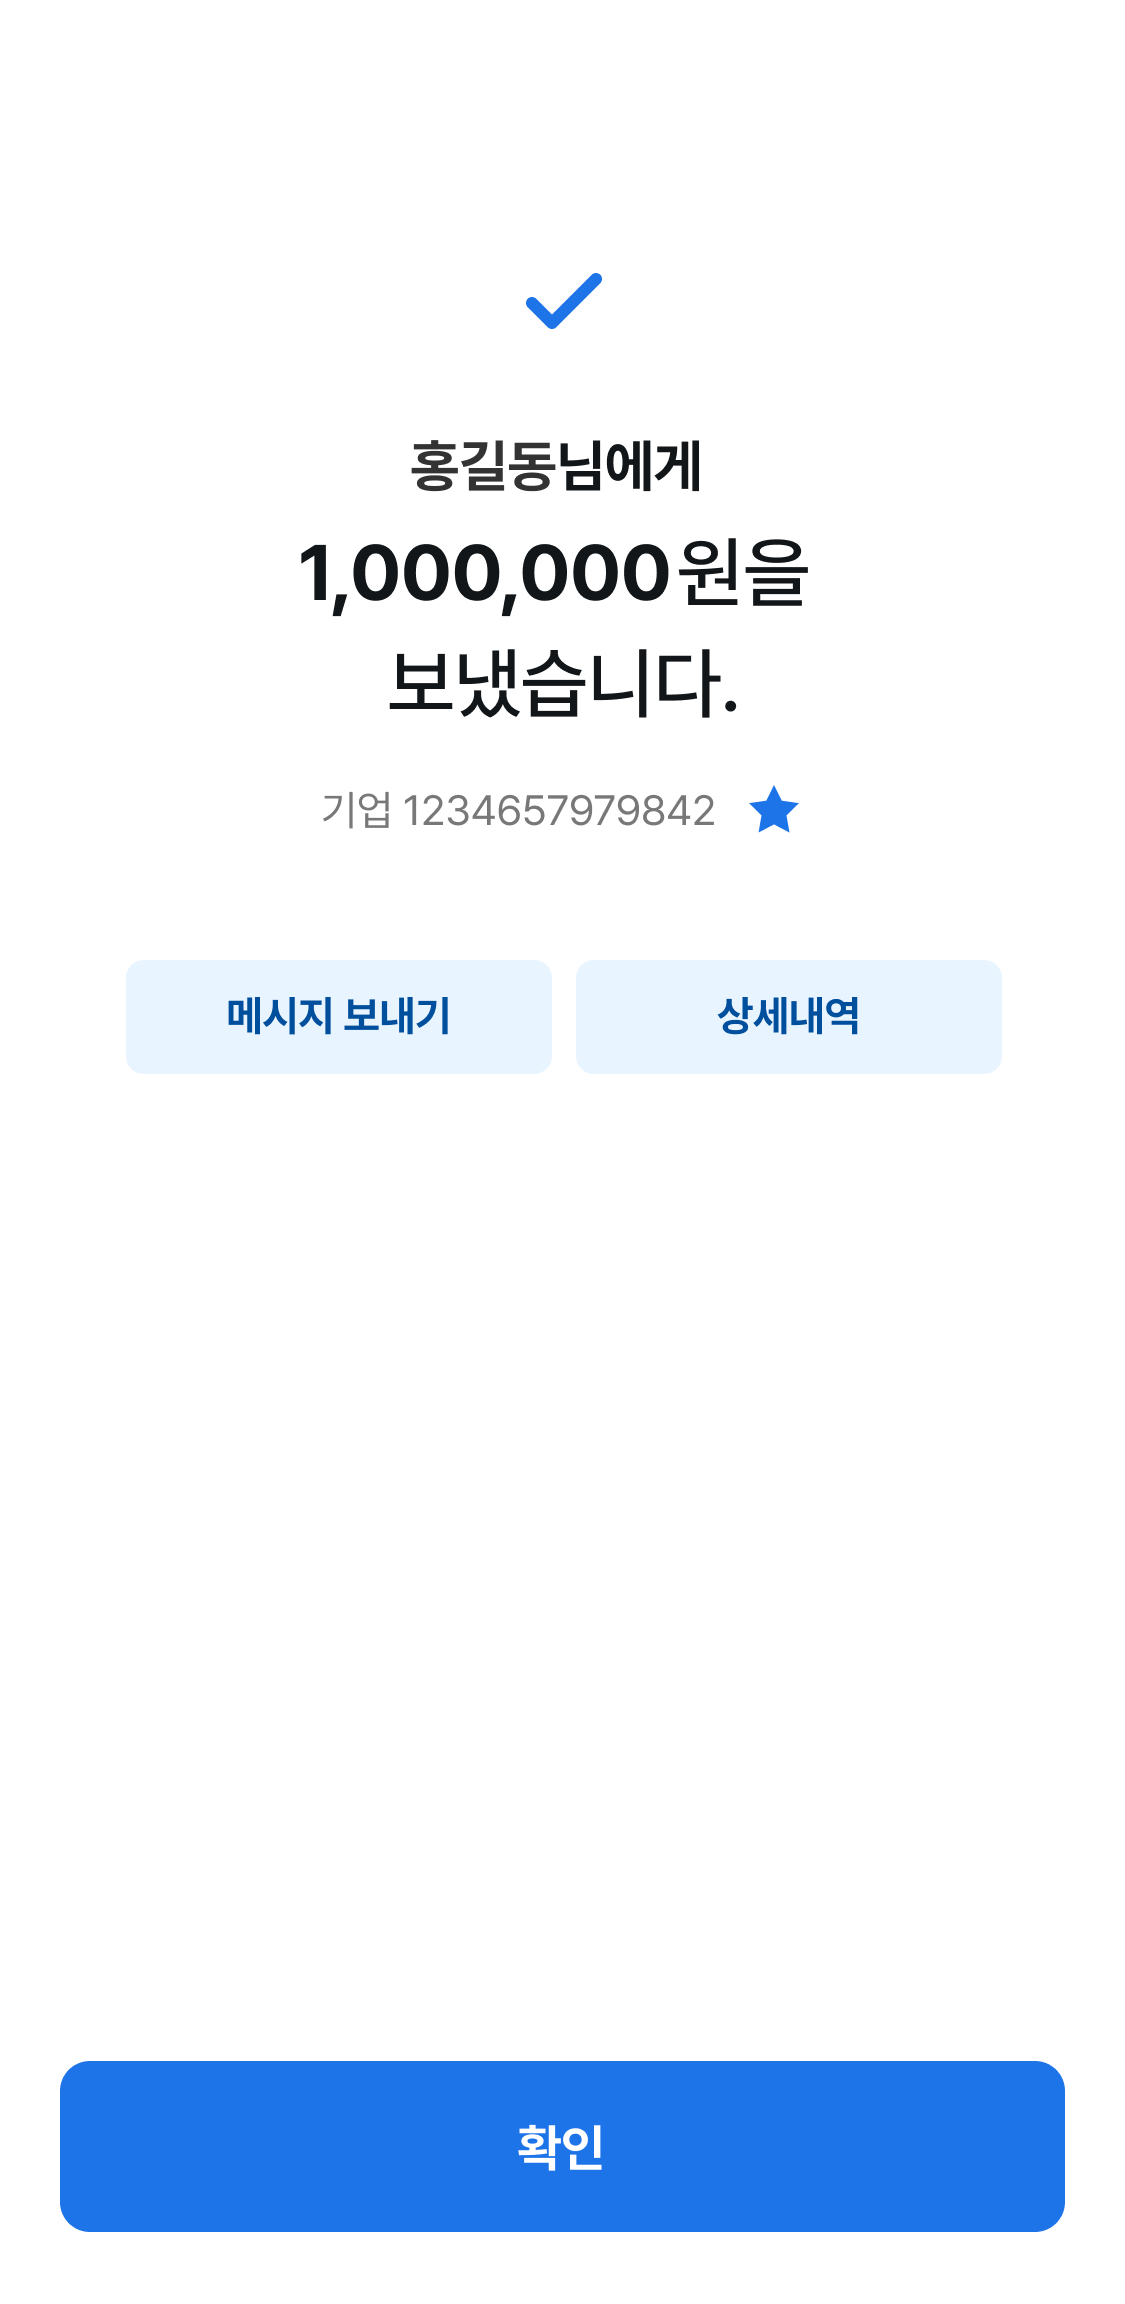
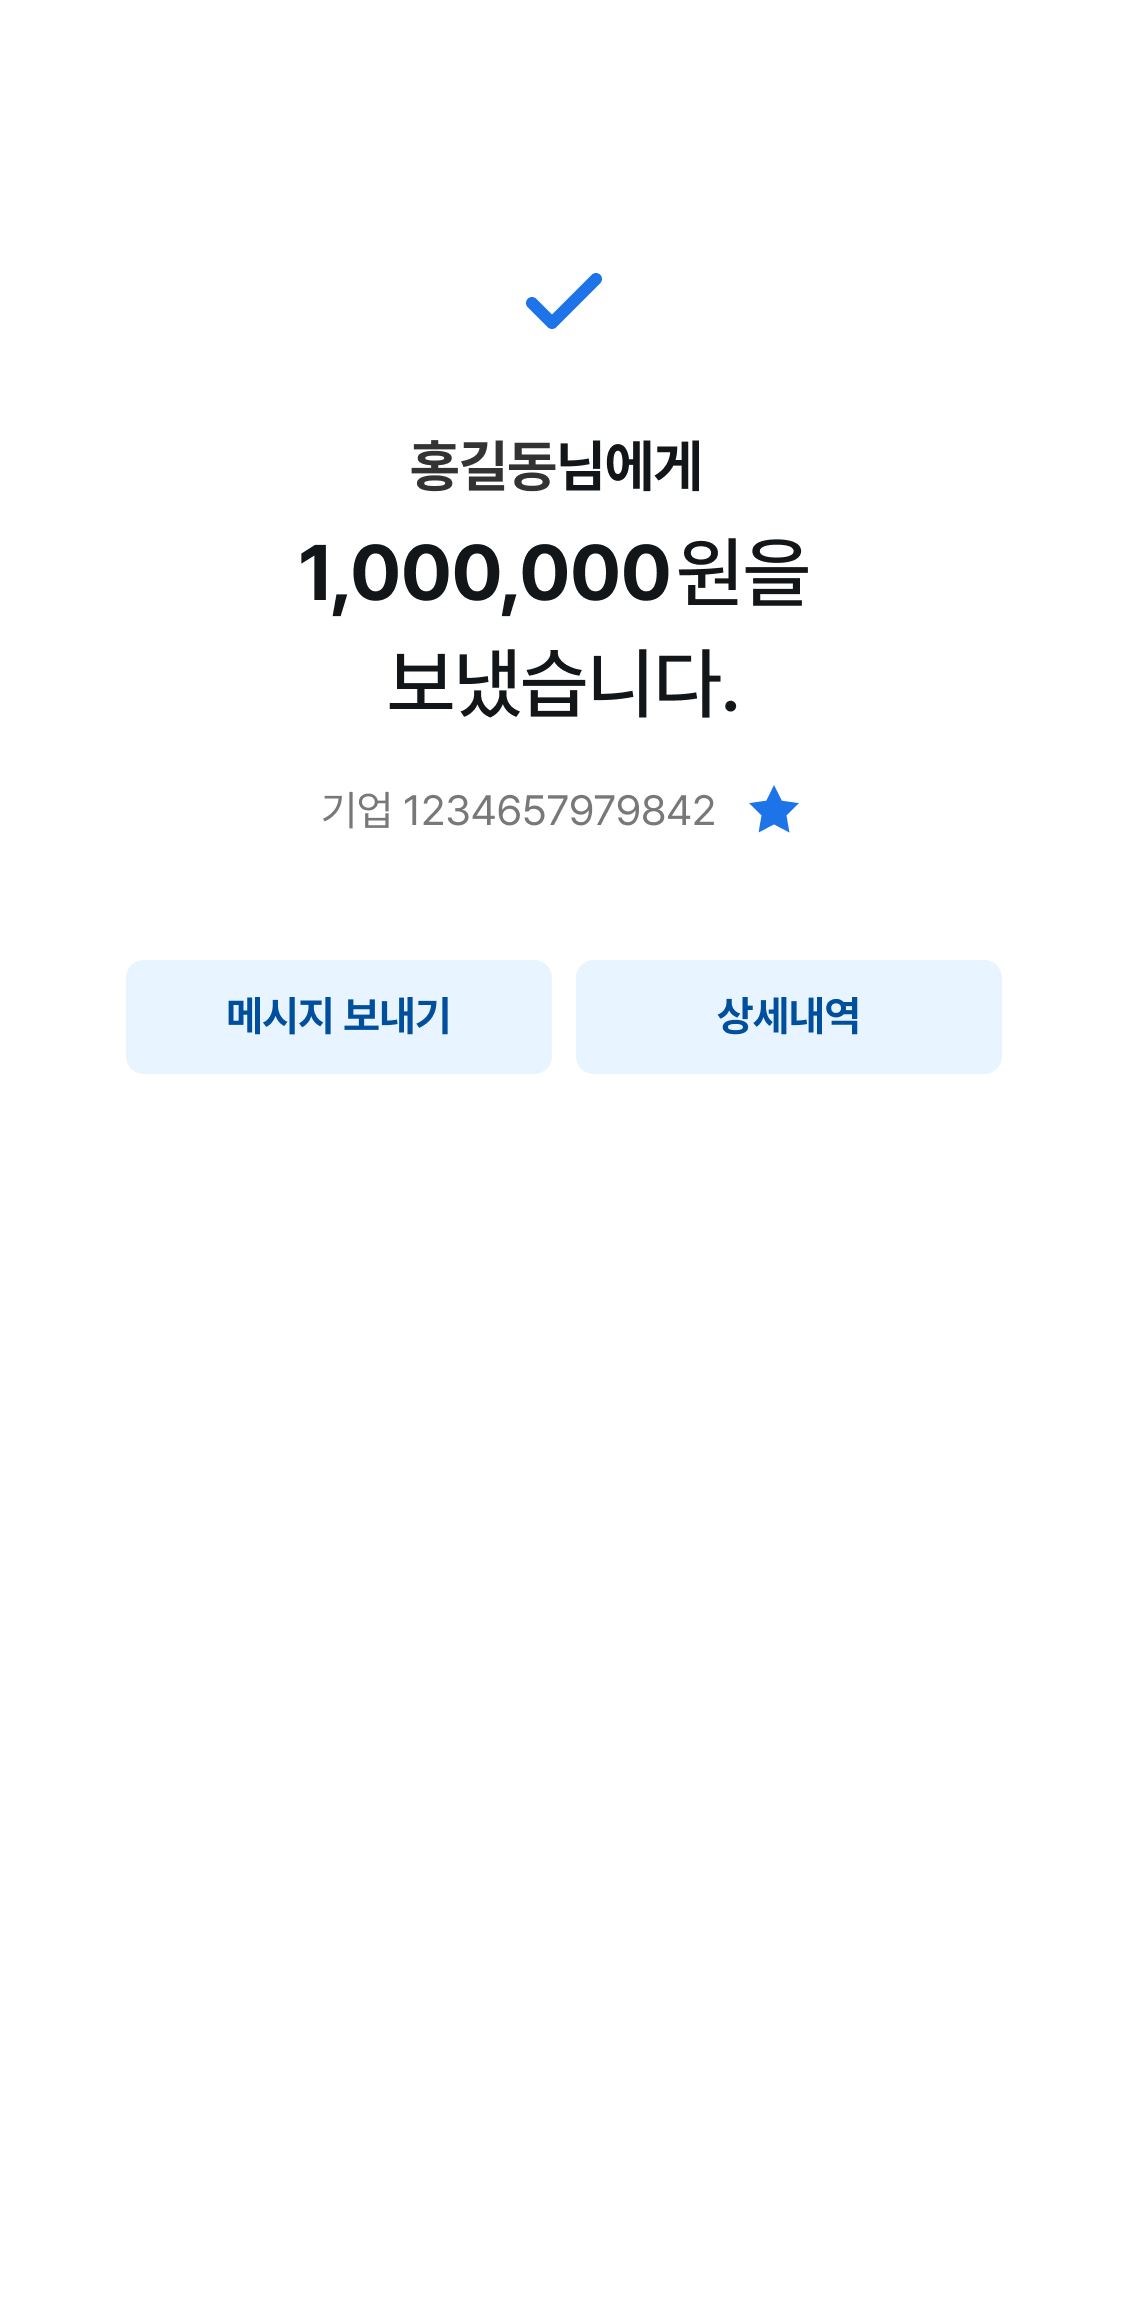
송금 수정

Changed region(s): [[0.0311, 0.875, 0.9644, 0.9688]]

diff --git a/IBK/transfer5.html b/IBK/transfer5.html
@@ -21,6 +21,7 @@
         .pop article {transform: translateY(100%);transition: all 0.5s ease;border-radius:12px 12px 0px 0px;background:#fff;width:100%;max-height:100%;padding:20px 20px 24px;box-sizing:border-box}
         .pop.on article {transform: translateY(0);transition: all 0.5s ease;}
         .pop-close {position:absolute;top:20px;right:20px;width:24px;height:24px;}
+        .img-wrap.type2 {position:fixed;width:375px;bottom:0}
         .img2 {width:302px;}
         #pop3.on{padding:0 42px}
         #pop3.on .popclose{position:relative;bottom:0;top:auto;right:auto;display: block;width: 100%;height: 24px;background: url(./images/home/home-pop-close.png) center no-repeat;background-size: 24px auto;margin: 54px 0 54px;text-align: center;}
@@ -30,11 +31,14 @@
 <body>
     <div class="container">
         <div class="page-wrap">
-            <div class="img-wrap img">
+            <div class="img-wrap">
                 <a href="#pop2" class="pop-open bt2"></a>
                 <a href="#pop1" class="pop-open2 bt1"></a>
-                <a href="#pop3" class="pop-open3 bt3"></a>
                 <img src="./images/transfer/transfer-fimg5.jpg" alt="">
+            </div>
+            <div class="img-wrap type2">
+                <a href="#pop3" class="pop-open3 bt3"></a>
+                <img src="./images/transfer/transfer-fimg5-bt.jpg" alt="">
             </div>
         </div>
     </div> 

diff --git a/IBK/transfer3.html b/IBK/transfer3.html
@@ -11,7 +11,8 @@
         .transfer-box {position:relative}
         .transfer-box a{position:absolute;top:10px;left:15px;width:35px;height:35px;}
         .img-wrap {position:relative} 
-        .img-wrap.img  a {position:absolute;width:100%;bottom:25px;height:57px;}    
+        .img-wrap a {position:absolute;width:100%;bottom:25px;height:57px;z-index:10;}   
+        .img-wrap.type2  {position:fixed;bottom:0;width:375px}
     </style>
 </head>
 <body>
@@ -21,9 +22,10 @@
                 <img src="./images/transfer/transfer-tit3.jpg" alt="">
                 <a href="./transfer2.html"></a>
             </div>
-            <div class="img-wrap img">
+            <div class="img-wrap"><img src="./images/transfer/transfer-fimg3-1.jpg" alt=""></div>
+            <div class="img-wrap type2">
                 <a href="./transfer4.html"></a>
-                <img src="./images/transfer/transfer-fimg3.jpg" alt="">
+                <img src="./images/transfer/transfer-fimg3-2.jpg" alt="">
             </div>
         </div>
     </div> 

diff --git a/IBK/transfer2.html b/IBK/transfer2.html
@@ -11,7 +11,8 @@
         .transfer-box {position:relative}
         .transfer-box a{position:absolute;top:10px;left:15px;width:35px;height:35px;}
         .img-wrap {position:relative} 
-        .img-wrap.img  a {position:absolute;width:100%;bottom:25px;height:57px;}
+        .img-wrap.type2 a {position:absolute;width:100%;bottom:25px;height:57px;z-index: 10;}
+        .img-wrap.type2 {position:fixed;width:375px;bottom:0}
     </style>
 </head>
 <body>
@@ -21,9 +22,10 @@
                 <img src="./images/transfer/transfer-tit2.jpg" alt="">
                 <a href="./transfer.html"></a>
             </div>
-            <div class="img-wrap img">
+            <div class="img-wrap"><img src="./images/transfer/transfer-fimg2-1.jpg" alt=""></div>
+            <div class="img-wrap type2">
                 <a href="./transfer3.html"></a>
-                <img src="./images/transfer/transfer-fimg2.jpg" alt="">
+                <img src="./images/transfer/transfer-fimg2-2.jpg" alt="">
             </div>
         </div>
     </div>

diff --git a/IBK/transfer.html b/IBK/transfer.html
@@ -34,6 +34,8 @@
         .pop.on{bottom:0;display:flex !important; align-items: flex-end;}
         .pop.full.on {display:block !important;background:#fff;}
         .pop-close {position:absolute;top:20px;right:20px;width:24px;height:24px}
+        .pop.full .img1 {}
+        .pop.full .img2 {position:fixed; bottom:0}
     
        
     </style>
@@ -85,7 +87,8 @@
         </div>
     </div>
     <div class="pop full" id="pop1">
-        <img src="./images/transfer/transfer-fimg1.jpg" alt="">
+        <div class="img1"><img src="./images/transfer/transfer-fimg1-1.jpg" alt=""></div>
+        <div class="img2"><img src="./images/transfer/transfer-fimg1-2.jpg" alt=""></div>
         <a href="#" class="pop-close"><img src="./images/ai/icon_close.png" alt=""></a>
     </div>
     <script src="./res/ibk-com.js"></script>
